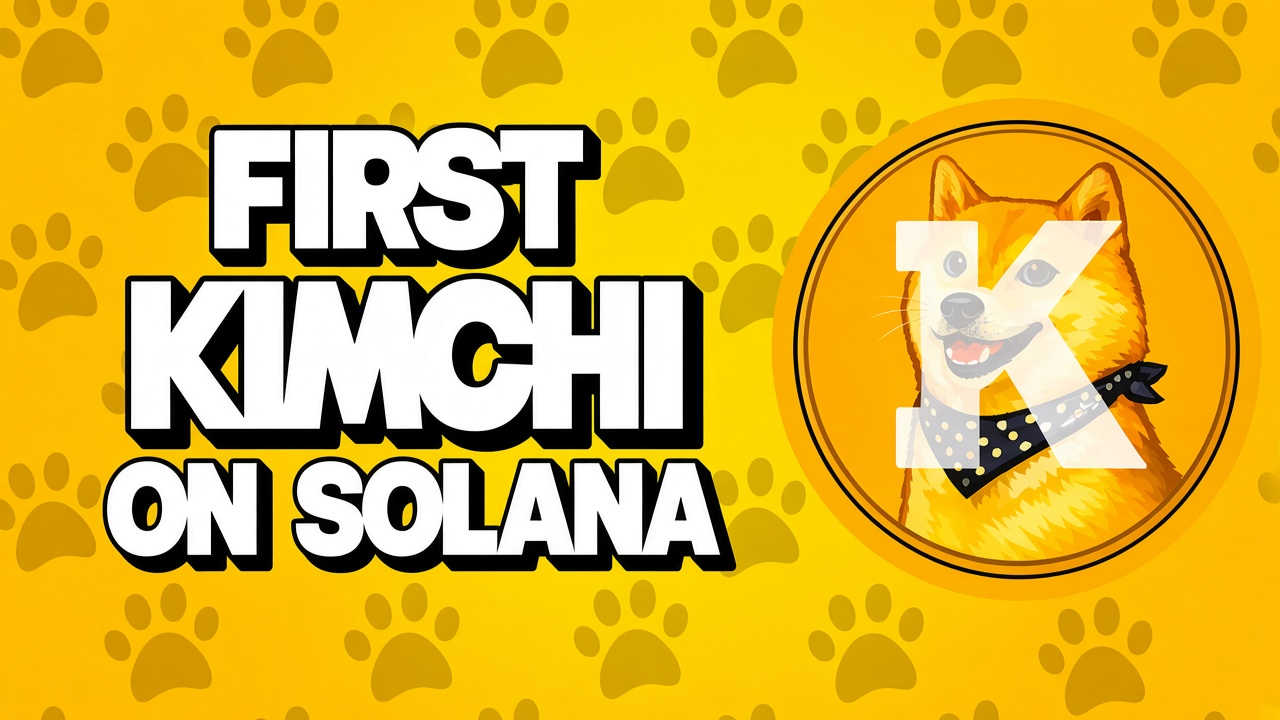
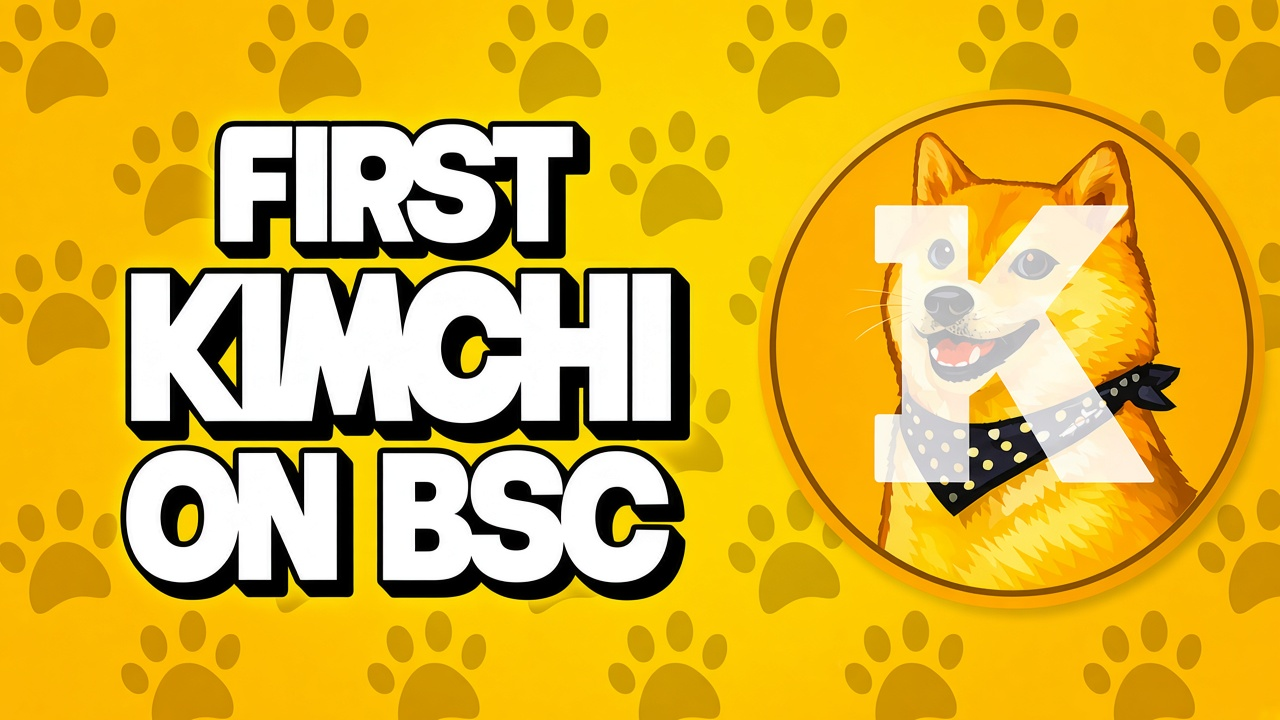
update

diff --git a/index.html b/index.html
@@ -4,19 +4,19 @@
 <meta charset="utf-8">
 <meta name="viewport" content="width=device-width, initial-scale=1, viewport-fit=cover">
 <title>Kimchi Coin — KIMCHI</title>
-<meta name="description" content="Kimchi Coin, ticker KIMCHI. A golden shiba in a dotted bandana, on Solana.">
+<meta name="description" content="Kimchi Coin, ticker KIMCHI. A golden shiba in a dotted bandana, on BNB Chain.">
 <meta property="og:type" content="website">
 <meta property="og:title" content="Kimchi Coin — KIMCHI">
-<meta property="og:description" content="First kimchi on Solana. Name Kimchi Coin, ticker KIMCHI.">
+<meta property="og:description" content="First kimchi on BSC. Name Kimchi Coin, ticker KIMCHI.">
 <meta property="og:image" content="/assets/img/banner.jpg">
 <meta property="og:image:width" content="1280">
 <meta property="og:image:height" content="720">
 <meta name="twitter:card" content="summary_large_image">
 <meta name="twitter:title" content="Kimchi Coin — KIMCHI">
-<meta name="twitter:description" content="First kimchi on Solana. Name Kimchi Coin, ticker KIMCHI.">
+<meta name="twitter:description" content="First kimchi on BSC. Name Kimchi Coin, ticker KIMCHI.">
 <meta name="twitter:image" content="/assets/img/banner.jpg">
-<meta name="twitter:image:alt" content="Kimchi Coin banner: first kimchi on Solana">
-<meta property="og:image:alt" content="Kimchi Coin banner: first kimchi on Solana">
+<meta name="twitter:image:alt" content="Kimchi Coin banner: first kimchi on BSC">
+<meta property="og:image:alt" content="Kimchi Coin banner: first kimchi on BSC">
 <meta property="og:site_name" content="Kimchi Coin">
 <meta name="theme-color" content="#070b18">
 
@@ -64,13 +64,13 @@
   <div class="wrap">
 
     <p class="eyebrow reveal">
-      <span class="dot"></span> Solana · Kimchi Coin
+      <span class="dot"></span> BNB Chain · Kimchi Coin
     </p>
 
     <figure class="hero-mascot reveal">
       <span class="hero-glow" aria-hidden="true"></span>
       <img src="/assets/img/hero.jpg" width="1024" height="1024" fetchpriority="high"
-           decoding="async" alt="Kimchi Coin shiba, golden fur, dotted bandana, and a translucent K, in purple and mint light">
+           decoding="async" alt="Kimchi Coin shiba, golden fur, dotted bandana, and a translucent K, in gold light">
     </figure>
 
     <h1 class="wordmark reveal" aria-label="KIMCHI">
@@ -85,8 +85,8 @@
     <div class="chips reveal" role="list">
       <span class="chip" role="listitem">Name Kimchi Coin</span>
       <span class="chip" role="listitem">Ticker KIMCHI</span>
-      <span class="chip" role="listitem">Solana</span>
-      <span class="chip" role="listitem">SPL</span>
+      <span class="chip" role="listitem">BNB Chain</span>
+      <span class="chip" role="listitem">BEP-20</span>
     </div>
 
     <div class="cta reveal">
@@ -97,13 +97,13 @@
     </div>
 
     <div class="ca reveal">
-      <span class="ca-label">Mint</span>
+      <span class="ca-label">Contract</span>
       <code id="ca-text">Not posted yet</code>
     </div>
-    <p class="ca-warn reveal">The mint goes on this page and on @kimchicoin_x first. Ignore any other address.</p>
+    <p class="ca-warn reveal">The contract goes on this page and on @kimchicoin_x first. Ignore any other address.</p>
 
     <figure class="hero-banner reveal">
-      <img src="/assets/img/banner.jpg" alt="Yellow paw-print banner reading First Kimchi on Solana, beside the gold shiba coin" width="1280" height="720" decoding="async">
+      <img src="/assets/img/banner.jpg" alt="Yellow paw-print banner reading First Kimchi on BSC, beside the gold shiba coin" width="1280" height="720" decoding="async">
     </figure>
 
     <div class="stats reveal" id="stats" aria-live="polite">
@@ -122,16 +122,16 @@
   <div class="wrap">
     <header class="sec-head reveal">
       <span class="sec-label">Story</span>
-      <h2 class="section-title">The shiba on Solana</h2>
+      <h2 class="section-title">The shiba on BSC</h2>
     </header>
 
     <article class="chapter reveal">
       <div class="numeral" aria-hidden="true">I</div>
       <div class="chapter-body">
         <h3>It landed</h3>
-        <p>Not a kennel. A dark floor, purple on one side and mint on the other. The bandana was already tied.</p>
+        <p>Not a kennel. A dark floor, and gold light on both sides. The bandana was already tied.</p>
       </div>
-      <figure class="chapter-art"><img src="/assets/img/lore-land.jpg" alt="Kimchi shiba sitting on a glossy floor under purple and mint light" loading="lazy" width="1024" height="1024" decoding="async"></figure>
+      <figure class="chapter-art"><img src="/assets/img/lore-land.jpg" alt="Kimchi shiba sitting on a glossy floor under gold light" loading="lazy" width="1024" height="1024" decoding="async"></figure>
     </article>
 
     <article class="chapter reveal">
@@ -146,10 +146,10 @@
     <article class="chapter reveal">
       <div class="numeral" aria-hidden="true">III</div>
       <div class="chapter-body">
-        <h3>It ran the green light</h3>
-        <p>Solana moves fast. The shiba jumps after the mint streak, bandana snapping, and does not look back.</p>
+        <h3>It ran the gold light</h3>
+        <p>BNB Chain keeps moving. The shiba jumps after the gold streak, bandana snapping, and does not look back.</p>
       </div>
-      <figure class="chapter-art"><img src="/assets/img/lore-run.jpg" alt="Kimchi shiba leaping through mint-green light streaks" loading="lazy" width="1024" height="1024" decoding="async"></figure>
+      <figure class="chapter-art"><img src="/assets/img/lore-run.jpg" alt="Kimchi shiba leaping through gold light streaks" loading="lazy" width="1024" height="1024" decoding="async"></figure>
     </article>
 
     <article class="chapter reveal">
@@ -158,7 +158,7 @@
         <h3>Not one dog</h3>
         <p>One jar, then a small pack. Same face, same bandana. The ticker is still KIMCHI.</p>
       </div>
-      <figure class="chapter-art"><img src="/assets/img/lore-pack.jpg" alt="Four golden shibas in dotted bandanas under a purple and green aurora" loading="lazy" width="1024" height="1024" decoding="async"></figure>
+      <figure class="chapter-art"><img src="/assets/img/lore-pack.jpg" alt="Four golden shibas in dotted bandanas under a gold aurora" loading="lazy" width="1024" height="1024" decoding="async"></figure>
     </article>
   </div>
 </section>
@@ -166,19 +166,19 @@
 <section id="mascot" class="mascot">
   <div class="mascot-stage reveal">
     <img class="stage-still" src="/assets/img/stage.jpg" width="1280" height="720"
-         alt="Kimchi shiba in front of a purple and mint aurora, with paw-print stars" decoding="async">
+         alt="Kimchi shiba in front of a gold aurora, with paw-print stars" decoding="async">
   </div>
 
   <div class="wrap mascot-grid">
     <div class="mascot-copy reveal">
       <h2 class="section-title left">The official look</h2>
-      <p>The avatar is the gold coin: the shiba, the dotted bandana, the K. The banner is yellow, covered in paw prints, and says first kimchi on Solana. The new pictures grow out of those two.</p>
-      <p>No roadmap. No suit. This character, on Solana.</p>
+      <p>The avatar is the gold coin: the shiba, the dotted bandana, the K. The banner is yellow, covered in paw prints, and says first kimchi on BSC. The new pictures grow out of those two.</p>
+      <p>No roadmap. No suit. This character, on BNB Chain.</p>
       <ul class="ticks">
         <li>Name Kimchi Coin, ticker KIMCHI</li>
         <li>Logo and banner are the source of every picture</li>
-        <li>SPL token on Solana</li>
-        <li>Mint is posted here and on X, nowhere else first</li>
+        <li>BEP-20 token on BNB Chain</li>
+        <li>Contract is posted here and on X, nowhere else first</li>
       </ul>
     </div>
   </div>
@@ -192,11 +192,11 @@
   <div class="marquee-track">
     <span>Kimchi Coin</span><i>✦</i>
     <span>KIMCHI</span><i>✦</i>
-    <span>Solana</span><i>✦</i>
+    <span>BNB Chain</span><i>✦</i>
     <span>Open the jar</span><i>✦</i>
     <span>Kimchi Coin</span><i>✦</i>
     <span>KIMCHI</span><i>✦</i>
-    <span>Solana</span><i>✦</i>
+    <span>BNB Chain</span><i>✦</i>
     <span>Open the jar</span><i>✦</i>
   </div>
 </div>
@@ -205,7 +205,7 @@
   <div class="wrap">
     <header class="sec-head reveal">
       <span class="sec-label">Token</span>
-      <h2 class="section-title">Written for Solana</h2>
+      <h2 class="section-title">Written for BSC</h2>
       <p class="section-sub">The name is Kimchi Coin. The ticker is KIMCHI. Price follows the pool, once a pool exists.</p>
     </header>
 
@@ -222,8 +222,8 @@
       </div>
       <div class="card reveal">
         <span class="k">Chain</span>
-        <span class="v">Solana</span>
-        <span class="s">SPL</span>
+        <span class="v">BNB Chain</span>
+        <span class="s">BEP-20</span>
       </div>
       <div class="card reveal">
         <span class="k">Mascot</span>
@@ -231,7 +231,7 @@
         <span class="s">Gold coin, dotted bandana</span>
       </div>
       <div class="card reveal">
-        <span class="k">Mint</span>
+        <span class="k">Contract</span>
         <span class="v">Pending</span>
         <span class="s">Posted here and on X first</span>
       </div>
@@ -258,13 +258,13 @@
       </div>
     </div>
 
-    <p class="chain-note reveal" id="chain-note">No mint on this page yet, so nothing here is a live on-chain reading. Trust the address when it is posted, and check it yourself.</p>
+    <p class="chain-note reveal" id="chain-note">No contract on this page yet, so nothing here is a live on-chain reading. Trust the address when it is posted, and check it yourself.</p>
 
     <div class="verify reveal">
       <span>Where it trades</span>
-      <a href="https://jup.ag/" target="_blank" rel="noopener">Jupiter</a>
-      <a href="https://dexscreener.com/solana" target="_blank" rel="noopener">DexScreener</a>
-      <a href="https://solscan.io/" target="_blank" rel="noopener">Solscan</a>
+      <a href="https://pancakeswap.finance/" target="_blank" rel="noopener">PancakeSwap</a>
+      <a href="https://dexscreener.com/bsc" target="_blank" rel="noopener">DexScreener</a>
+      <a href="https://bscscan.com/" target="_blank" rel="noopener">BscScan</a>
     </div>
   </div>
 </section>
@@ -274,35 +274,35 @@
     <header class="sec-head reveal">
       <span class="sec-label">How to buy</span>
       <h2 class="section-title">Four steps</h2>
-      <p class="section-sub">Check the mint first. Then open the swap.</p>
+      <p class="section-sub">Check the contract first. Then open the swap.</p>
     </header>
 
     <ol class="steps">
       <li class="step reveal">
         <span class="n">01</span>
         <h3>Get a wallet</h3>
-        <p>Install Phantom, Solflare, or Backpack, and leave it on Solana.</p>
+        <p>Install MetaMask, Trust Wallet, or Rabby, and switch the network to BNB Chain.</p>
       </li>
       <li class="step reveal">
         <span class="n">02</span>
-        <h3>Add SOL</h3>
-        <p>Send SOL to that wallet. Keep a little aside for fees.</p>
+        <h3>Add BNB</h3>
+        <p>Send BNB to that wallet. Keep a little aside for fees.</p>
       </li>
       <li class="step reveal">
         <span class="n">03</span>
-        <h3>Match the mint</h3>
+        <h3>Match the contract</h3>
         <p>Paste only the address published on this page and on @kimchicoin_x. The name must read Kimchi Coin, and the ticker KIMCHI.</p>
       </li>
       <li class="step reveal">
         <span class="n">04</span>
         <h3>Swap</h3>
-        <p>Trade SOL for KIMCHI on Jupiter, and confirm it in the wallet. Skip links you do not recognize.</p>
+        <p>Trade BNB for KIMCHI on PancakeSwap, and confirm it in the wallet. Skip links you do not recognize.</p>
       </li>
     </ol>
 
     <div class="buy-cta reveal">
-      <a class="btn btn-lg" href="https://jup.ag/" target="_blank" rel="noopener">
-        Open Jupiter <svg class="ext" viewBox="0 0 24 24" aria-hidden="true"><path d="M7 17L17 7M17 7H9M17 7v8"/></svg>
+      <a class="btn btn-lg" href="https://pancakeswap.finance/" target="_blank" rel="noopener">
+        Open PancakeSwap <svg class="ext" viewBox="0 0 24 24" aria-hidden="true"><path d="M7 17L17 7M17 7H9M17 7v8"/></svg>
       </a>
     </div>
   </div>
@@ -335,7 +335,7 @@
         <svg viewBox="0 0 24 24" aria-hidden="true"><path d="M18.9 2.2h3.4l-7.4 8.4 8.7 11.5h-6.8l-5.3-7-6.1 7H1.9l7.9-9L1.5 2.2h7l4.8 6.4 5.6-6.4Zm-1.2 17.9h1.9L6.4 4.1H4.4l13.3 16Z"/></svg>
         <span>@kimchicoin_x</span>
       </a>
-      <a class="social" href="https://dexscreener.com/solana" target="_blank" rel="noopener">
+      <a class="social" href="https://dexscreener.com/bsc" target="_blank" rel="noopener">
         <svg viewBox="0 0 24 24" aria-hidden="true"><path d="M3 17.5 9 11l4 4 8-8.5"/><path d="M15 6.5h6v6"/></svg>
         <span>DexScreener</span>
       </a>
@@ -351,12 +351,12 @@
         <img src="/assets/img/logo.png" alt="" width="30" height="30" decoding="async">
         <span>Kimchi Coin</span>
       </a>
-      <code class="foot-ca">Mint not posted yet</code>
+      <code class="foot-ca">Contract not posted yet</code>
     </div>
     <p class="disclaimer">
       Kimchi Coin is a meme coin. It has no intrinsic value, and it does not promise a return.
       This page is not investment advice, not a security, and not a product of any exchange.
-      Crypto prices move hard, and money you put in can go to zero. Check the mint yourself before you trade.
+      Crypto prices move hard, and money you put in can go to zero. Check the contract yourself before you trade.
     </p>
     <p class="copy">Kimchi Coin · © <span id="year">2026</span></p>
   </div>

diff --git a/assets/js/main.js b/assets/js/main.js
@@ -1,9 +1,9 @@
-/* Kimchi Coin — KIMCHI on Solana.
+/* Kimchi Coin — KIMCHI on BNB Chain.
    One rAF loop drives the field; everything else is event-driven. */
 (() => {
   'use strict';
 
-  // Solana mint. Stays empty until it is posted on this page and on X.
+  // BEP-20 contract. Stays empty until it is posted on this page and on X.
   const CONTRACT = '';
   const reduced = matchMedia('(prefers-reduced-motion: reduce)').matches;
   const coarse = matchMedia('(pointer: coarse)').matches;
@@ -206,7 +206,7 @@
   async function loadStats() {
     const note = $('#stats-note');
     if (!CONTRACT) {
-      if (note) note.textContent = 'Quotes show up here once the mint is posted.';
+      if (note) note.textContent = 'Quotes show up here once the contract is posted.';
       return;
     }
     try {
@@ -993,4 +993,4 @@
   render();
 })();
 
-/* Solana mint checks wait until a mint is posted on this page. */
+/* BNB Chain checks wait until a contract is posted on this page. */
